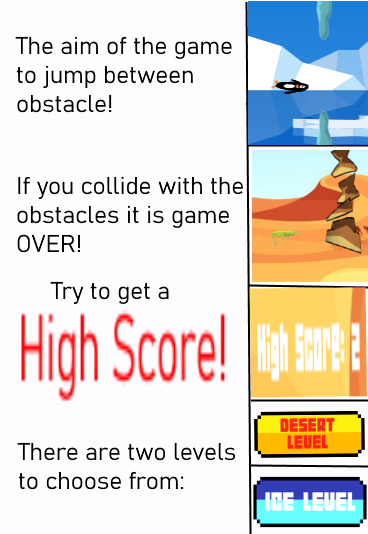
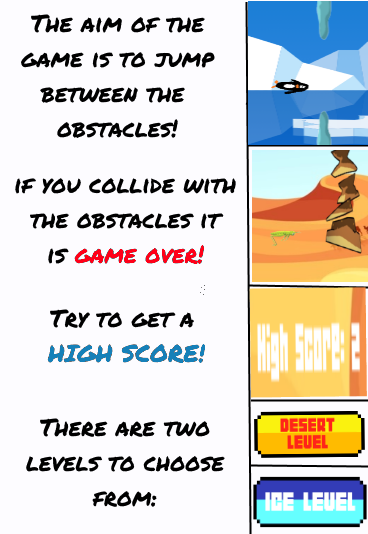
Implemented the level selector screen and the onscreen instructions

Changed region(s): [[0.0299, 0.3296, 0.6576, 0.7491], [0.0299, 0.03, 0.6277, 0.2697], [0.0598, 0.779, 0.6576, 0.9588]]

diff --git a/main.py b/main.py
@@ -5,6 +5,22 @@ import random
 from level import Level
 
 
+def instruction_screen():
+    global running
+    instruction_state = False
+    while not instruction_state:
+        WINDOW.fill(WHITE)
+        for i in pygame.event.get():
+            if i.type == pygame.KEYDOWN:
+                instruction_state = True
+                running = False
+            if i.type == pygame.QUIT:
+                pygame.quit()
+                sys.exit()
+        WINDOW.blit(instructions_surface, (0, 0))
+        pygame.display.update()
+
+
 def draw_floor():
     WINDOW.blit(floor_surface, (floor_x_pos, 900))
     WINDOW.blit(floor_surface, (floor_x_pos + 576, 900))
@@ -131,7 +147,7 @@ ICE_ASSETS = Level(
 DESERT_ASSETS = Level(
     pygame.image.load("assets/desert-background.png").convert(),
     pygame.image.load("assets/desert-base.png").convert(),
-    pygame.image.load("assets/dust_devil1.png").convert_alpha(),
+    pygame.image.load("assets/dust_devil2.png").convert_alpha(),
     pygame.image.load("assets/grasshopper_df.png").convert_alpha(),
     pygame.image.load("assets/grasshopper_mf.png").convert_alpha(),
     pygame.image.load("assets/grasshopper_uf.png").convert_alpha(),
@@ -139,7 +155,41 @@ DESERT_ASSETS = Level(
     pygame.mixer.Sound("sound/sfx_wing.wav")
 )
 
-user_choice = "Ie"
+level_select_surface = pygame.image.load("assets/level_selector.png").convert_alpha()
+level_select_surface = pygame.transform.scale2x(level_select_surface)
+ice_button_surface = pygame.image.load("assets/ice_button.png")
+ice_button_surface = pygame.transform.scale2x(ice_button_surface)
+ice_button_rect = ice_button_surface.get_rect(topleft=(5, 462))
+desert_button_surface = pygame.image.load("assets/desert_button.png")
+desert_button_surface = pygame.transform.scale2x(desert_button_surface)
+desert_button_rect = desert_button_surface.get_rect(topleft=(297, 462))
+
+instructions_surface = pygame.image.load("assets/Onscreen_Instructions.png").convert_alpha()
+instructions_surface = pygame.transform.scale(instructions_surface, (576, 1024))
+
+user_choice = ""
+
+instruction_screen()  # Displays Instruction Screen when game launches
+
+level_state = False
+while not level_state:
+    WINDOW.fill(WHITE)
+    for events in pygame.event.get():
+        if events.type == pygame.MOUSEBUTTONUP:
+            mouse_position = pygame.mouse.get_pos()
+            if desert_button_rect.collidepoint(mouse_position):
+                user_choice = "Desert"
+                level_state = True
+            elif ice_button_rect.collidepoint(mouse_position):
+                user_choice = "Ice"
+                level_state = True
+        if events.type == pygame.QUIT:
+            pygame.quit()
+            sys.exit()
+    WINDOW.blit(level_select_surface, (0, 0))
+    WINDOW.blit(ice_button_surface, (5, 462))
+    WINDOW.blit(desert_button_surface, (297, 462))
+    pygame.display.update()
 
 if user_choice == "Ice":
     bg_surface = ICE_ASSETS.background
@@ -164,12 +214,11 @@ else:
 death_sound = pygame.mixer.Sound("sound/sfx_hit.wav")
 score_sound = pygame.mixer.Sound("sound/sfx_point.wav")
 
+
 bg_surface = pygame.transform.scale2x(bg_surface)
 floor_surface = pygame.transform.scale2x(floor_surface)
 floor_x_pos = 0
 
-instructions_surface = pygame.image.load("assets/Onscreen_Instructions.png").convert_alpha()
-instructions_surface = pygame.transform.scale(instructions_surface, (576, 1024))
 
 sprite_frames = [sprite_df, sprite_mf, sprite_uf]
 sprite_index = 0
@@ -177,7 +226,8 @@ sprite_surface = sprite_frames[sprite_index]
 sprite_rect = sprite_surface.get_rect(center=(100, 512))
 
 
-pygame.display.set_icon(sprite_uf)
+ICON = pygame.image.load("assets/penglide-icon.png").convert_alpha()
+pygame.display.set_icon(ICON)
 
 
 SPRITEFLAP = pygame.USEREVENT + 1
@@ -198,8 +248,6 @@ while not running:
     WINDOW.fill(WHITE)
     for event in pygame.event.get():
         if event.type == pygame.KEYDOWN:
-            # if event.key == pygame.K_SPACE:
-            #     WINDOW.blit(instructions_surface, (0,0))
             running = True
         if event.type == pygame.QUIT:
             pygame.quit()
@@ -210,7 +258,6 @@ while not running:
     draw_floor()
     if floor_x_pos <= -576:
         floor_x_pos = 0
-    WINDOW.blit(instructions_surface, (0, 0))
     pygame.display.update()
     clock.tick(144)
 
@@ -272,4 +319,4 @@ while running:
         floor_x_pos = 0
 
     pygame.display.update()
-    clock.tick(120)
+    clock.tick(144)
